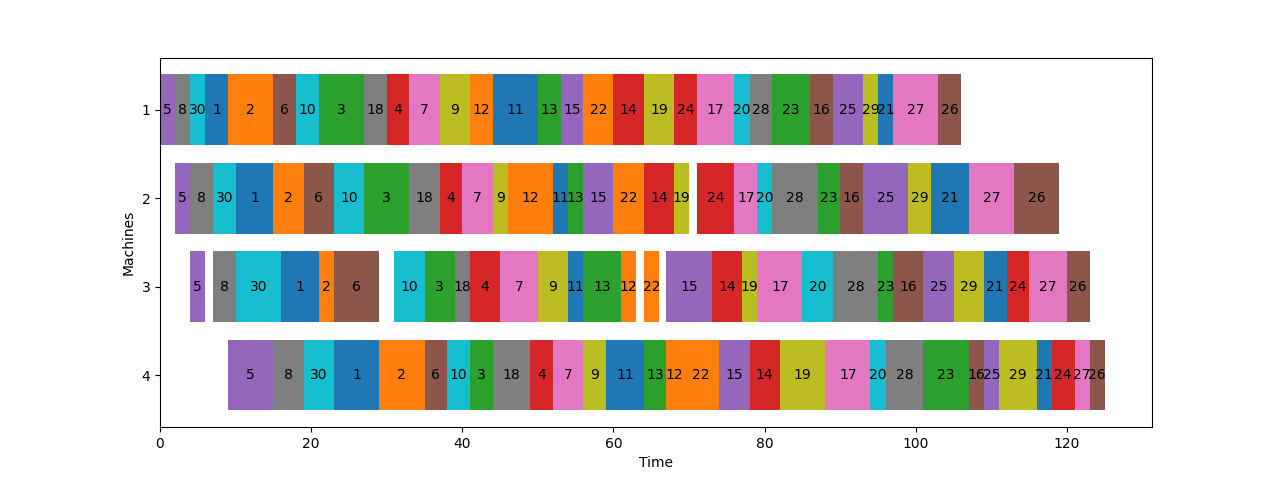
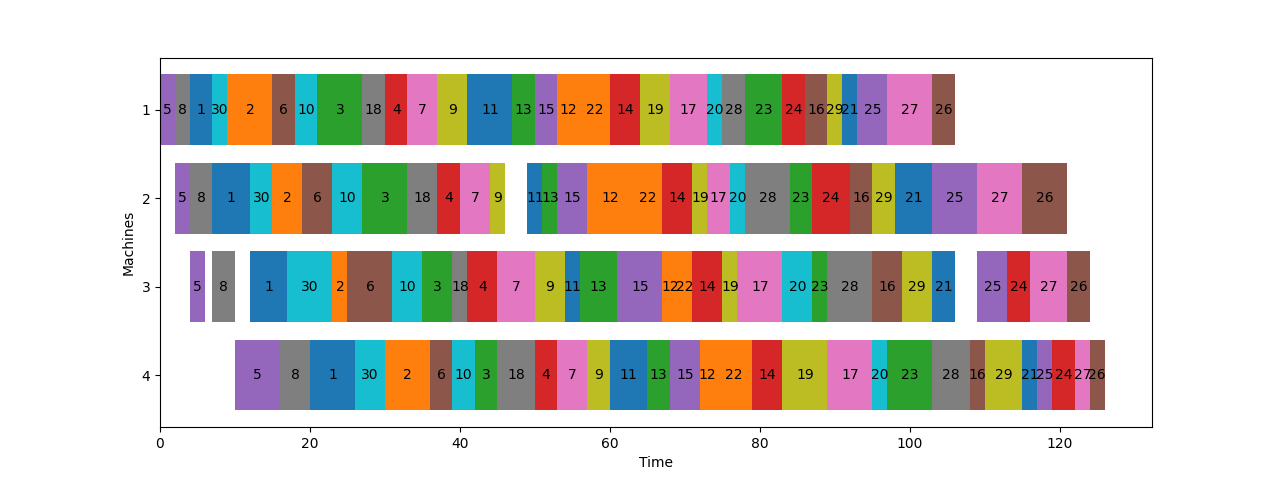
Implement Johnson's heuristic

diff --git a/johnson.py b/johnson.py
@@ -1,0 +1,59 @@
+from collections import defaultdict
+
+"""Implementation of Johnson's rule for m machines"""
+def virtual_processing_times(processing_times, pivot=None, between=True):
+    """processing_times: dict, key = (machine, job)"""
+    # extract job names
+    jobs = set([e[1] for e in processing_times.keys()])
+    machines = set([e[0] for e in processing_times.keys()])
+    num_machines = len(machines)
+
+    if pivot is None:
+        pivot = num_machines//2
+
+    ps = defaultdict(int)
+
+    for machine in range(pivot - int(not between)):
+        for job in jobs:
+            ps[(1, job)] += processing_times[(machine+1, job)]
+    for machine in range(pivot+1, num_machines):
+        for job in jobs:
+            ps[(2, job)] += processing_times[(machine+1, job)]
+
+    return ps
+
+
+def johnson_heuristic(processing_times, pivot=None, between=True):
+    ps = virtual_processing_times(processing_times, pivot=pivot, between=between)
+
+    # change ps into a list of tuples (p, machine, job) and sort by p
+    ps_tuples = sorted([(p, *k) for k, p in ps.items()])
+
+    # keep track of which jobs have already been scheduled
+    seen = set()
+
+    schedule_head = []
+    schedule_tail = []
+
+    # compute johnson's rule w.r.t. virtual machines
+    for (_, m, j) in ps_tuples:
+        if m == 1 and j not in seen:
+            schedule_head.append(j)
+            seen.add(j)
+        if m == 2 and j not in seen:
+            schedule_tail.insert(0, j)
+            seen.add(j)
+
+    return schedule_head + schedule_tail
+
+
+def permutation_to_order_vars(permutation):
+    num_jobs = max(permutation)
+    order_vars = [[0 for _ in range(num_jobs)] for _ in range(num_jobs)]
+
+    for idx, j in enumerate(permutation):
+        for jafter in permutation[idx:]:
+            order_vars[j-1][jafter-1] = 1
+
+    return order_vars
+

diff --git a/scheduler.py b/scheduler.py
@@ -5,6 +5,8 @@ import re
 import ast
 import itertools
 
+import johnson
+
 
 class Instance:
     def __init__(self, filename):

diff --git a/run.py b/run.py
@@ -14,4 +14,4 @@ def main(n=None):
 
 
 if __name__ == '__main__':
-    main()
+    main(n=0)
